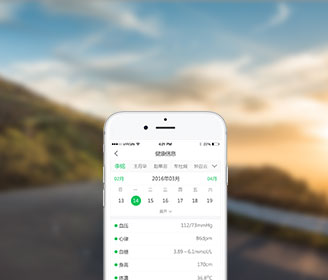
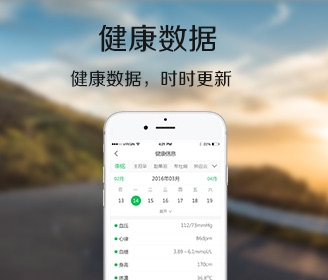
完成service.html

diff --git a/css/page.css b/css/page.css
@@ -569,14 +569,14 @@
 
 /* ----------- service ----------- */
 
-.page-content .service.service-1{
+.page-content .service-1{
 	height: 700px;
 }
 
-.page-content .service.service-1 .wrap{
+.page-content .service-1 .wrap{
 	background: url(../img/banner-service.png);
 }
-.page-content .service.service-1 .lt-icon{
+.page-content .service-1 .lt-icon{
 	position: absolute;
 	top: -140px;
 	bottom: 0;
@@ -589,7 +589,7 @@
 	-ms-transition: top 2s cubic-bezier(.1,0,.04,1), opacity 2s;
 }
 
-.page-content .service.service-1 .title{
+.page-content .service-1 .title{
 	position: absolute;
 	top: 700px;
 	left: 30px;
@@ -603,20 +603,64 @@
 	opacity: 0;
 }
 
-.page-content .service.service-1.active .lt-icon{
+.page-content .service-1.active .lt-icon{
 	top: 230px;
 }
 
-.page-content .service.service-1.active .title{
+.page-content .service-1.active .title{
 	top: 182px;
 	opacity: 1;
 }
 
-
-.page-content .service.service-2{
-	height: 700px;
+.page-content .service-2 .title{
+	margin: 60px auto;
+	text-align: center;
+	font-size: 24px;
 }
 
+.page-content .service-2 .topics{
+	width: 984px;
+	margin: 60px auto;
+}
 
+.page-content .service-2 .topics:after {
+    content: '';
+    display: block;
+    height: 0;
+    clear: both;
+    width: 100%;
+}
 
-.title {}
+.page-content .service-2 .item{
+	width: 328px;
+	height: 280px;
+	float:left;
+	background-repeat: no-repeat;
+}
+.page-content .service-2 .qrcode{
+	display: none;
+	width: 100%;
+	height: 100%;
+	background: url(../img/app_code.png) no-repeat;
+}
+.page-content .service-2 a:hover .qrcode{
+	display: block;
+}
+.page-content .service-2 a.a {
+	background-image: url(../img/001.jpg);
+}
+.page-content .service-2 a.b {
+	background-image: url(../img/002.jpg);
+}
+.page-content .service-2 a.c {
+	background-image: url(../img/003.jpg);
+}
+.page-content .service-2 a.d {
+	background-image: url(../img/004.jpg);
+}
+.page-content .service-2 a.e {
+	background-image: url(../img/005.jpg);
+}
+.page-content .service-2 a.f {
+	background-image: url(../img/006.jpg);
+}

diff --git a/service.html b/service.html
@@ -57,12 +57,12 @@
             <div class="wrap">
                 <div class="title">所有专题</div>
                 <div class="topics">
-                    <div class="item1"></div>
-                    <div class="item2"></div>
-                    <div class="item3"></div>
-                    <div class="item4"></div>
-                    <div class="item5"></div>
-                    <div class="item6"></div>
+                    <a class="item a" href="javascript:void 0;"><p class="qrcode"></p></a>
+                    <a class="item b" href="javascript:void 0;"><p class="qrcode"></p></a>
+                    <a class="item c" href="javascript:void 0;"><p class="qrcode"></p></a>
+                    <a class="item d" href="javascript:void 0;"><p class="qrcode"></p></a>
+                    <a class="item e" href="javascript:void 0;"><p class="qrcode"></p></a>
+                    <a class="item f" href="javascript:void 0;"><p class="qrcode"></p></a>
                 </div>
             </div>
         </div>
@@ -81,9 +81,7 @@
     <script>
     (function(){
         function addClass(){
-            var top = (document.body.scrollTop || document.documentElement.scrollTop) + 700;
-            var page = Math.floor((top + 200) / 660);
-            var dom = document.querySelector('.service.service-' + page);
+            var dom = document.querySelector('.service-1');
             var className = dom.className;
             if(className.indexOf('active') == -1){
                 dom.className = className + ' active';
